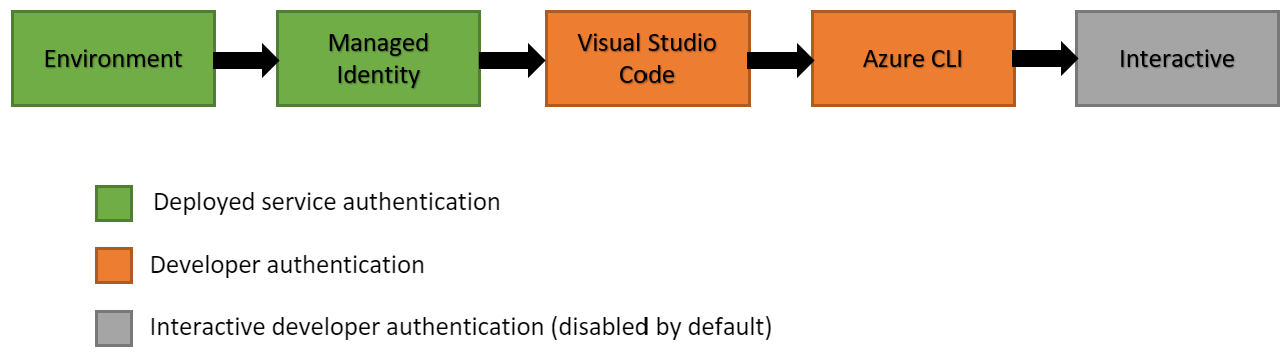
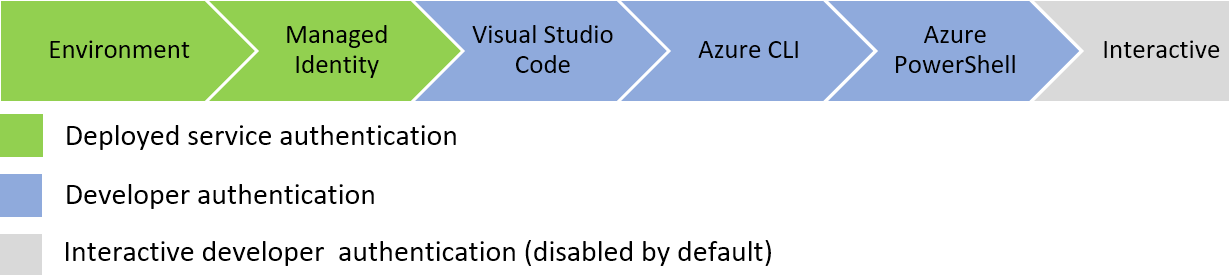
update readme

diff --git a/sdk/identity/azure-identity/README.md b/sdk/identity/azure-identity/README.md
@@ -85,9 +85,12 @@ the following mechanisms in this order, stopping when one succeeds:
   Managed Identity enabled, `DefaultAzureCredential` will authenticate with it.
 - Visual Studio Code - if a user has signed in to the Visual Studio Code Azure
   Account extension, `DefaultAzureCredential` will authenticate as that user.
-- Azure CLI - If a user has signed in via the Azure CLI `az login` command,
+- Azure CLI - if a user has signed in via the Azure CLI `az login` command,
   `DefaultAzureCredential` will authenticate as that user.
-- Interactive - If enabled, `DefaultAzureCredential` will interactively
+- Azure PowerShell - if a user has signed in via Azure PowerShell's
+  `Connect-AzAccount` command, `DefaultAzureCredential` will authenticate
+  as that user.
+- Interactive - if enabled, `DefaultAzureCredential` will interactively
   authenticate a user via the default browser.
 
 >DefaultAzureCredential is intended to simplify getting started with the SDK by handling common
